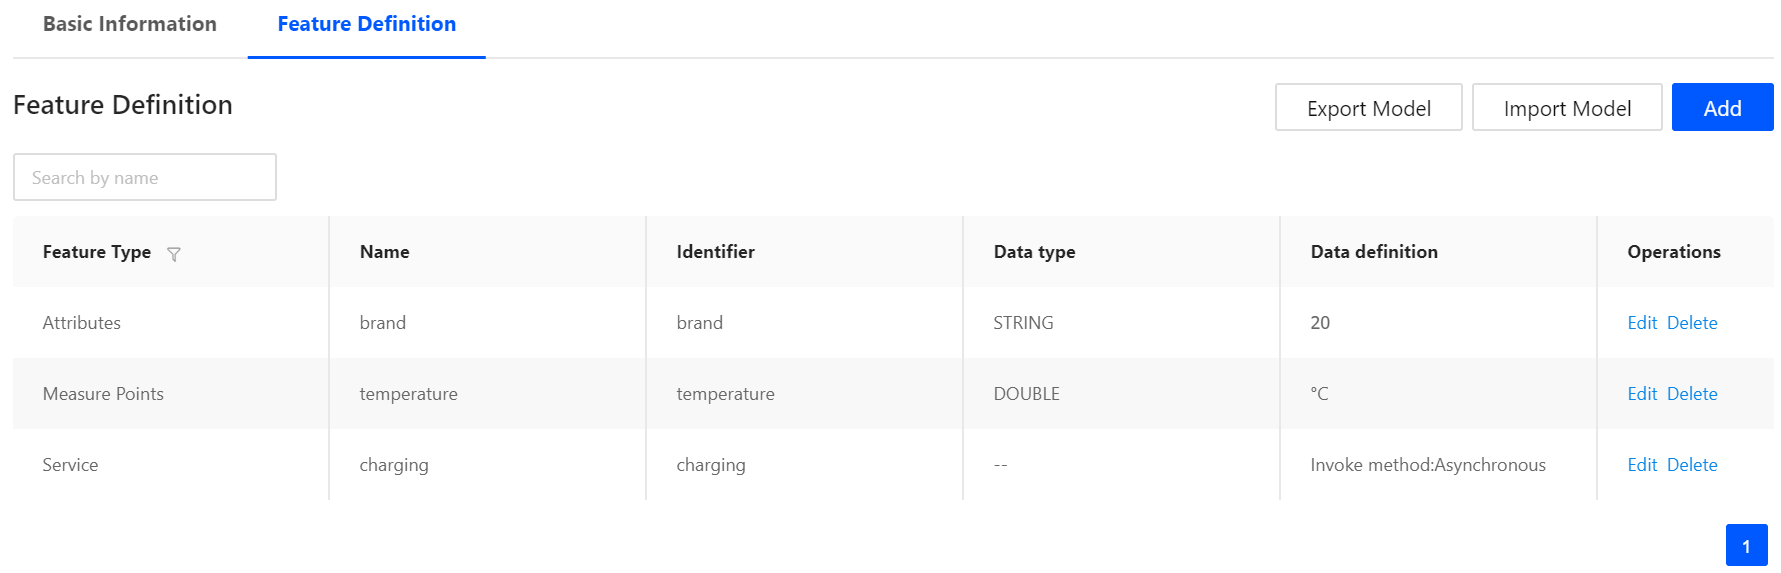
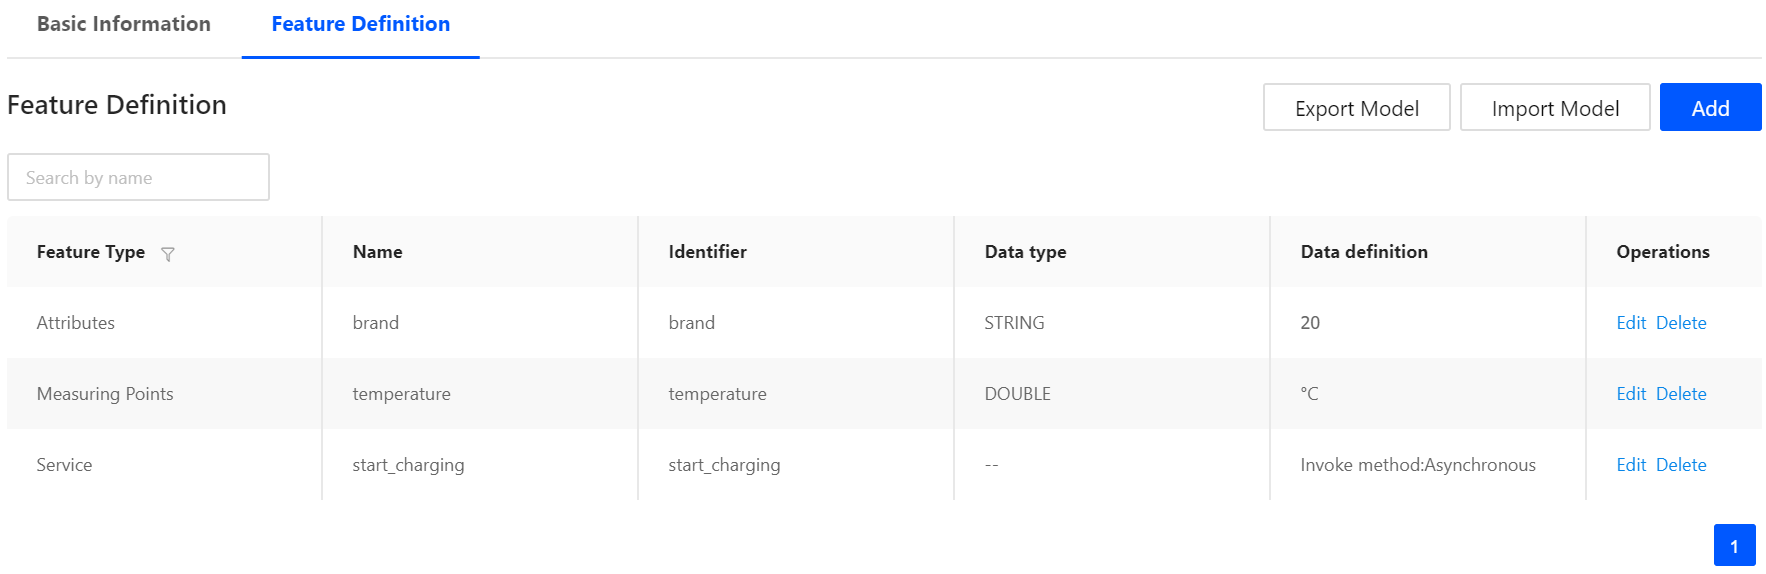
Update.

diff --git a/connecting_device_simulated/registering_device.md b/connecting_device_simulated/registering_device.md
@@ -36,7 +36,7 @@ This step assumes that there is no device model to be reused on EnOS. Take the f
       "Feature Type", "Name", "Identifier", "Data Type", "Description"
       "Attribute", "brand", "brand", "String", "Brand information of the device"
       "Measuring Point", "temperature", "temperature", "Double", "Point to ingest the device temperature data"
-      "Service", "charging", "charging", "--", "Service that controls the charging status of the device"
+      "Service", "start_charging", "start_charging", "--", "Service that controls the charging status of the device"
 
 See the following screen capture of the created features of the model:
 
